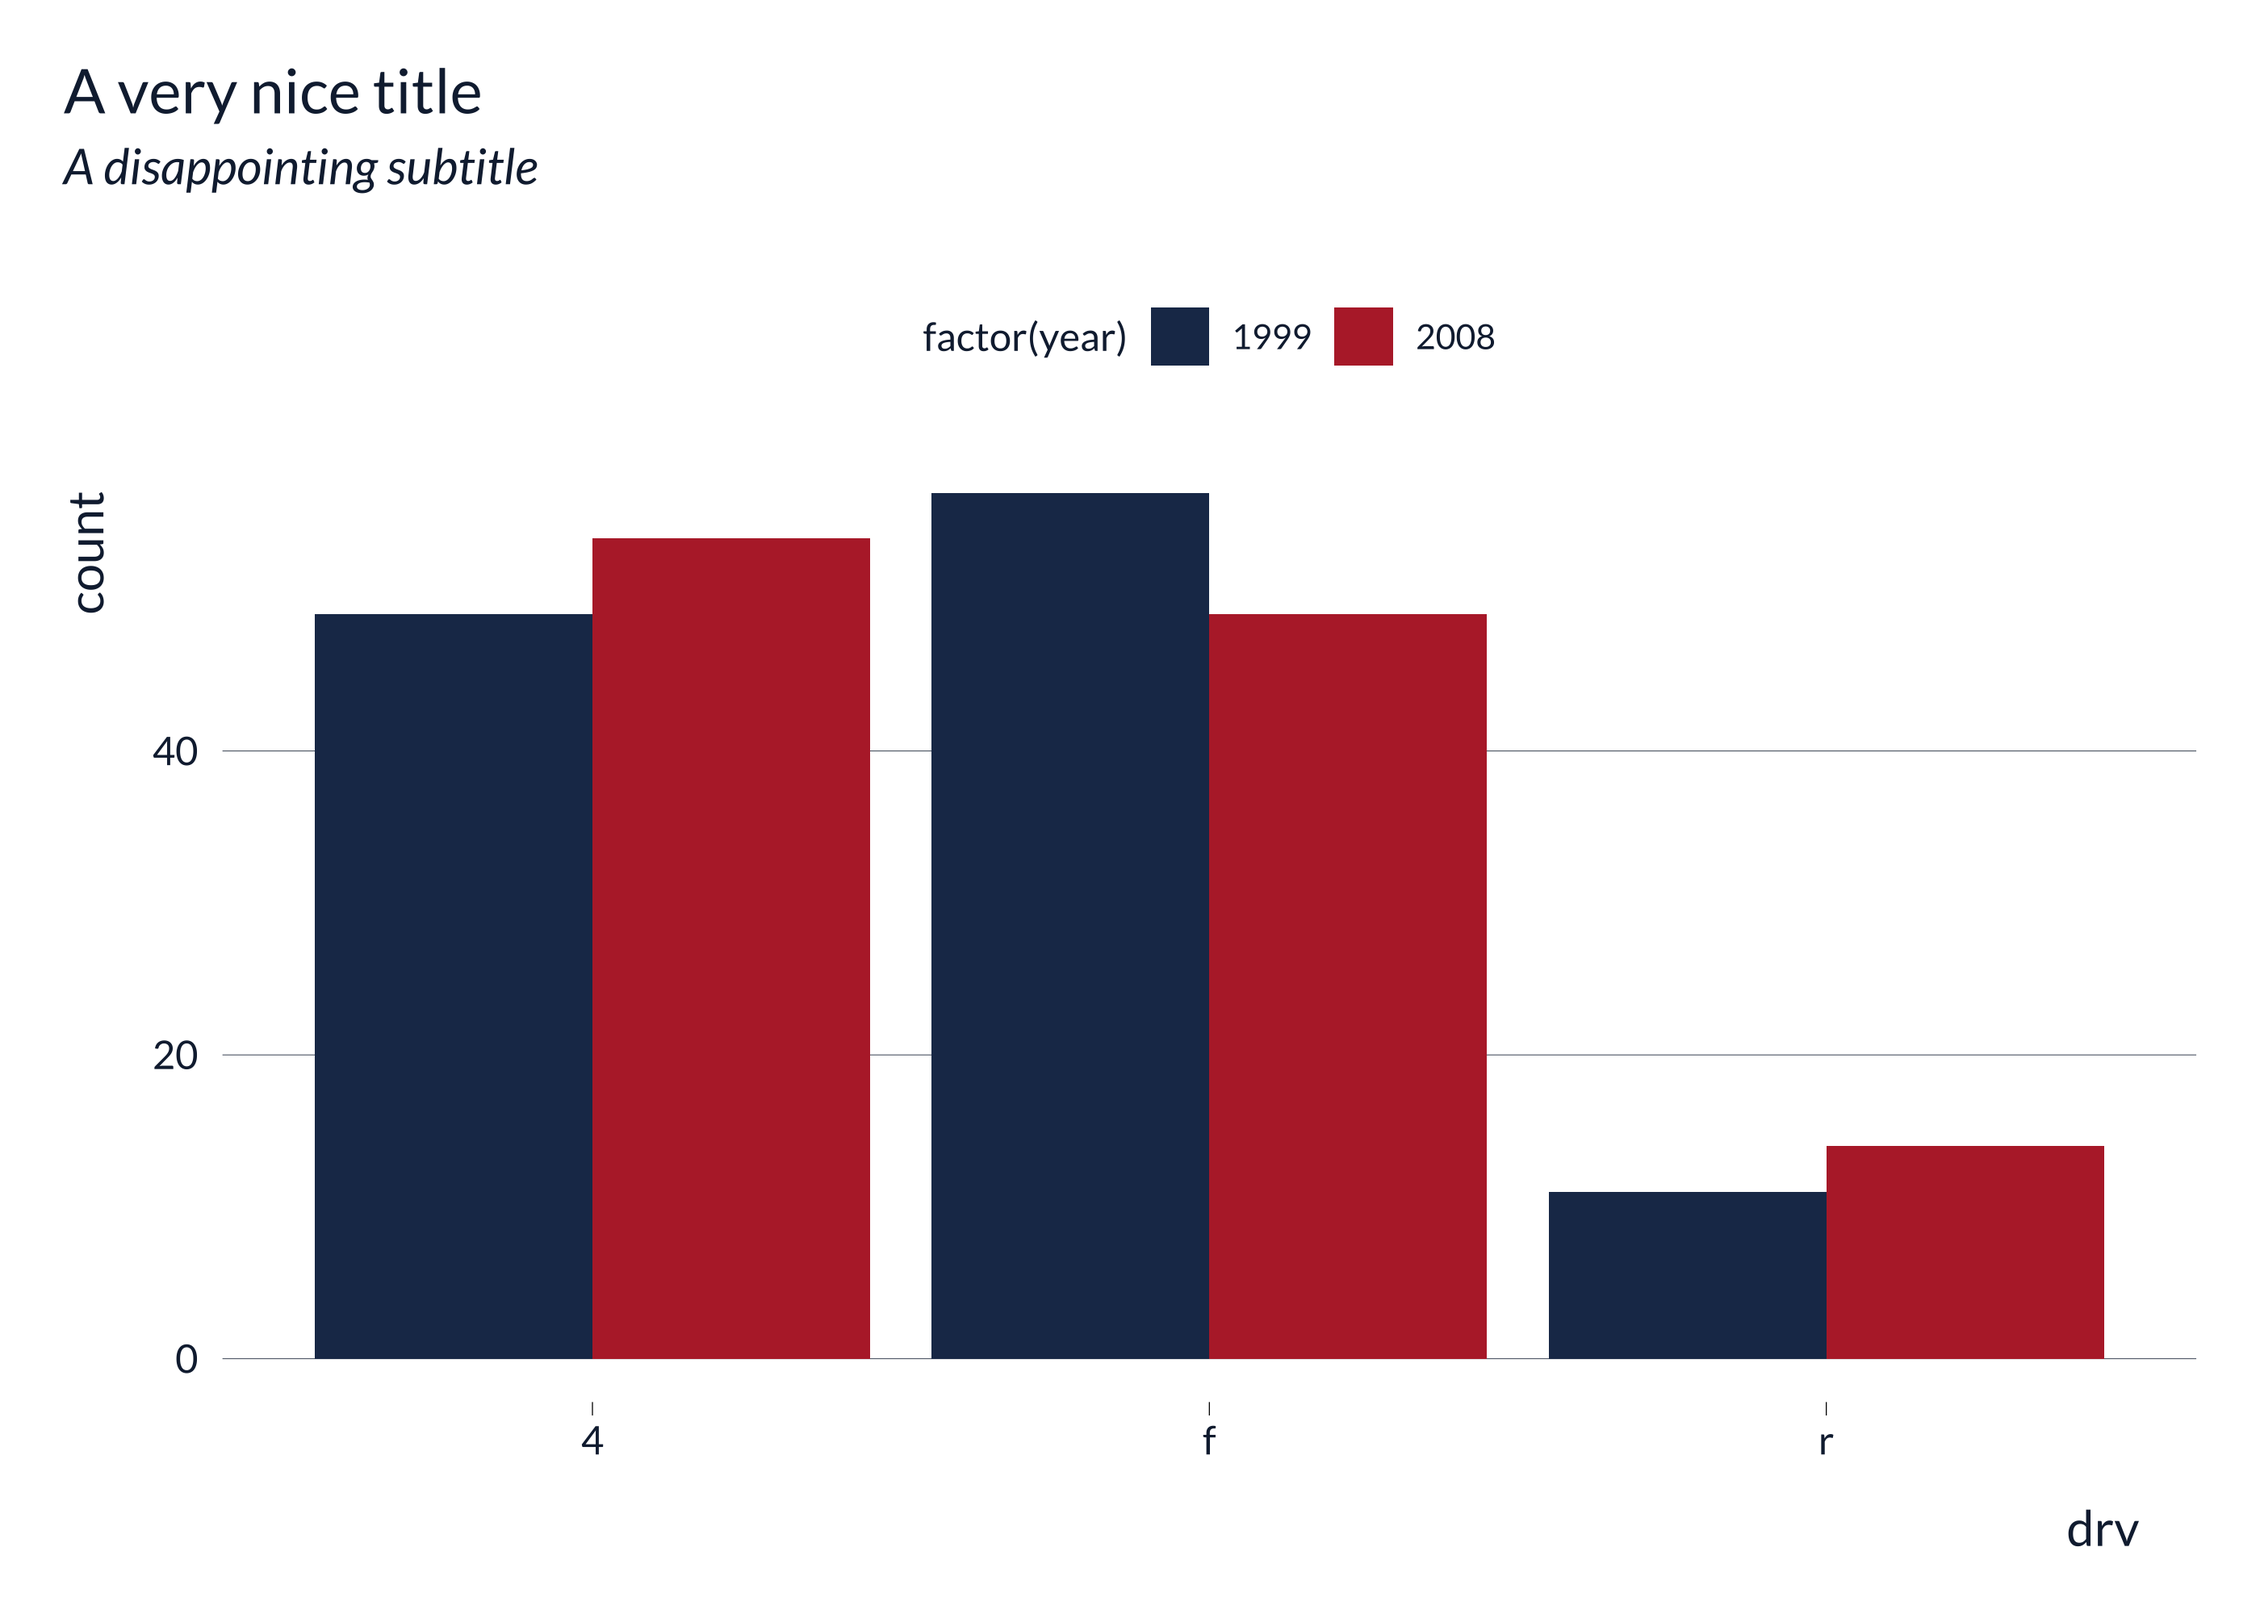
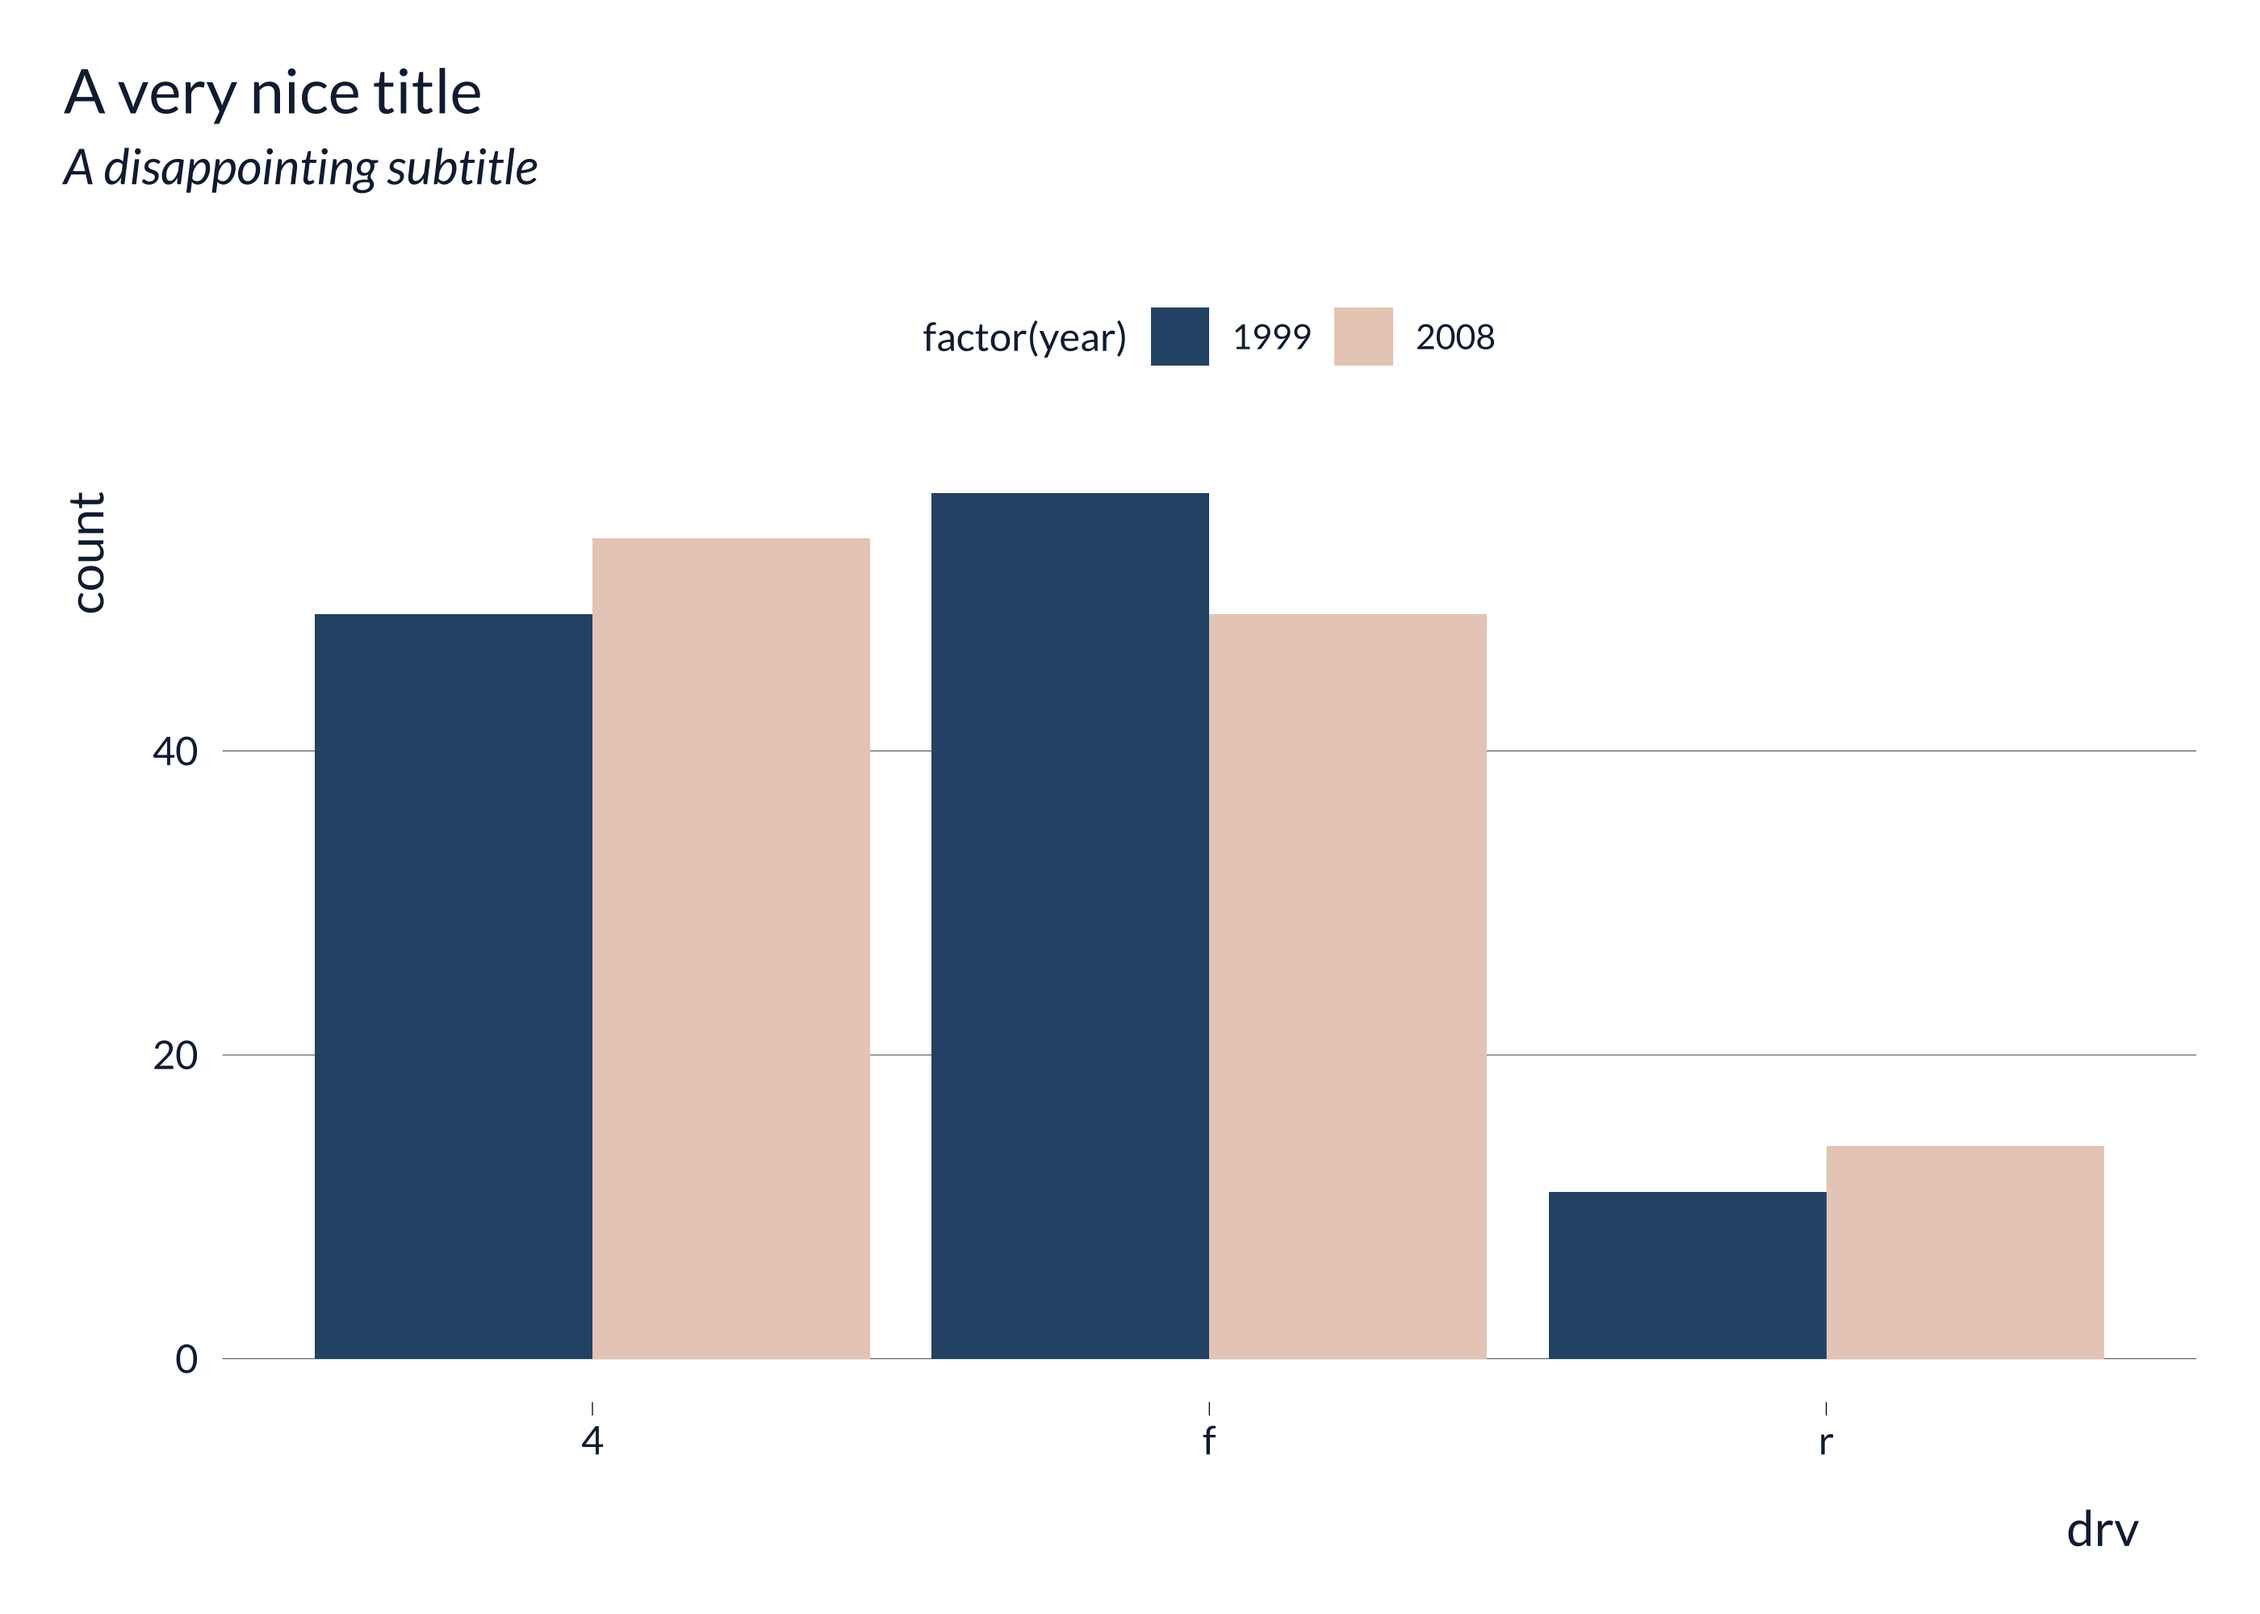
Better second color

Changed region(s): [[0.1243, 0.279, 0.9321, 0.868], [0.4971, 0.186, 0.5593, 0.248], [0.5904, 0.186, 0.6214, 0.248]]

diff --git a/docs/reference/palette_mediocre_d.html b/docs/reference/palette_mediocre_d.html
@@ -156,9 +156,10 @@ labels and so forth.</p></td>
 #&gt;     mediocre_color_vector &lt;- unlist(strsplit(color_theme[["vector"]], 
 #&gt;         split = ", "))
 #&gt;     mediocre_pal &lt;- function(n) {
-#&gt;         if (n == 2 &amp; pal != "hotcold") {
-#&gt;             color_vector &lt;- mediocre_color_vector[c(1 + 4 * second_pair, 
-#&gt;                 8 + 4 * second_pair)]
+#&gt;         if (n == 2) {
+#&gt;             color_vector &lt;- mediocre_color_vector[c(1 + 5 * second_pair + 
+#&gt;                 (pal == "hotcold"), 8 + 5 * second_pair + (pal == 
+#&gt;                 "hotcold"))]
 #&gt;         }
 #&gt;         else if (n == 3) {
 #&gt;             color_vector &lt;- mediocre_color_vector[-c(2, 15)]
@@ -176,8 +177,8 @@ labels and so forth.</p></td>
 #&gt;     ggplot2::discrete_scale(..., aesthetics = c("fill", "color"), 
 #&gt;         scale_name = "disc_scale", palette = mediocre_pal)
 #&gt; }
-#&gt; &lt;bytecode: 0x7ff9784fe800&gt;
-#&gt; &lt;environment: 0x7ff978504988&gt;</div><div class='input'>
+#&gt; &lt;bytecode: 0x7ff8a86c9da0&gt;
+#&gt; &lt;environment: 0x7ff8a86cd9e8&gt;</div><div class='input'>
 <span class='fu'><a href='palette_mediocre_c.html'>palette_mediocre_c</a></span><span class='op'>(</span>pal <span class='op'>=</span> <span class='st'>"rainbow"</span><span class='op'>)</span>
 </div><div class='output co'>#&gt; function (...) 
 #&gt; {
@@ -189,8 +190,8 @@ labels and so forth.</p></td>
 #&gt;     ggplot2::scale_fill_gradientn(..., colors = mediocre_color_vector, 
 #&gt;         aesthetics = c("fill", "color"))
 #&gt; }
-#&gt; &lt;bytecode: 0x7ff9785bbca0&gt;
-#&gt; &lt;environment: 0x7ff9785be758&gt;</div><div class='input'>
+#&gt; &lt;bytecode: 0x7ff8a87a3ca8&gt;
+#&gt; &lt;environment: 0x7ff8a87a2c78&gt;</div><div class='input'>
 </div></pre>
   </div>
   <div class="col-md-3 hidden-xs hidden-sm" id="pkgdown-sidebar">
